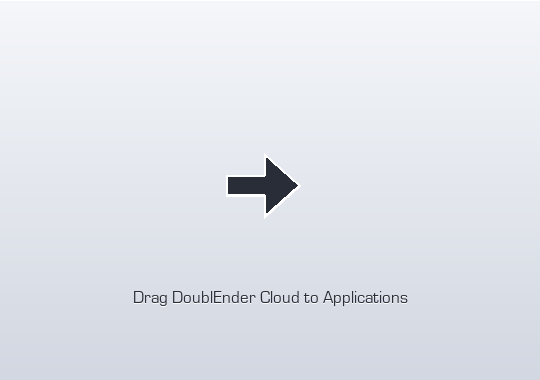
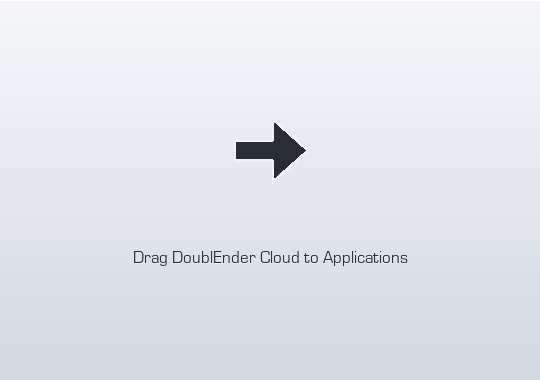
Lift the DMG composition clear of Finder's chrome
The caption sat at y 291-305 and Finder's status and path bars cut the
background at about y 307, so it was clipped in the mounted window. Those
two bars are global Finder view settings, not per-window: dmg-settings.py
already asks for them off and the .DS_Store carries that, but Finder shows
them anyway, so the layout has to tolerate the loss rather than assume it
away.

Composition lifted 35-40 pt, leaving ~40 pt of clearance below the caption,
and the arrow nudged 8 pt right: its ink centre was x=262 while the midpoint
between the two icon slots is x=270, so it crowded the app icon (14 pt of
clearance on the left against 30 on the right).

Applied directly to the PNGs rather than re-exported. The gradient is
uniform across x and varies only by row, so the background could be
reconstructed exactly and the ink relocated losslessly. Icon positions in
dmg-settings.py moved to match; the arrow now centres on both the icon
height and the gap between them.

Changed region(s): [[0.237, 0.7526, 0.7704, 0.8105], [0.4148, 0.3184, 0.563, 0.5789], [0.237, 0.6658, 0.7704, 0.6947]]

diff --git a/tools/dmg/dmg-settings.py b/tools/dmg/dmg-settings.py
@@ -16,8 +16,8 @@ app_name = os.path.basename(app)
 # Keep these three in sync with tools/dmg/make-background.py, which draws the
 # arrow between exactly these two icon centres.
 WINDOW = ((240, 180), (540, 380))
-APP_XY = (150, 185)
-APPS_XY = (390, 185)
+APP_XY = (150, 150)
+APPS_XY = (390, 150)
 
 format = "UDZO"
 compression_level = 9
